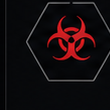
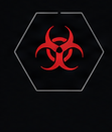
Refine card links and hero sizing

Changed region(s): [[0.1091, 0.0, 1.0, 0.7636], [0.0273, 0.0, 0.0545, 0.5455], [0.0273, 0.6818, 0.0545, 0.8455]]

diff --git a/assets/css/site.css b/assets/css/site.css
@@ -334,7 +334,7 @@ p {
 .eyebrow {
   margin: 0 0 1rem;
   color: var(--red);
-  font-size: clamp(1.05rem, 1.15vw, 1.25rem);
+  font-size: clamp(1.18rem, 1.32vw, 1.42rem);
   font-weight: 850;
   letter-spacing: 0.14em;
   text-transform: uppercase;
@@ -358,7 +358,7 @@ p {
 
 .hero h1 {
   max-width: 100%;
-  font-size: clamp(2.8rem, 3vw, 3.45rem);
+  font-size: clamp(3.1rem, 3.35vw, 3.9rem);
   line-height: 1;
   font-weight: 850;
   white-space: nowrap;
@@ -368,7 +368,7 @@ p {
   max-width: 760px;
   margin-top: 1.25rem;
   color: var(--muted);
-  font-size: clamp(1.45rem, 1.9vw, 1.85rem);
+  font-size: clamp(1.65rem, 2.05vw, 2.05rem);
   line-height: 1.6;
   overflow-wrap: break-word;
 }
@@ -496,22 +496,36 @@ h2 {
 }
 
 .card-levels a {
-  display: grid;
+  display: flex;
+  align-items: center;
+  justify-content: space-between;
   gap: 0.12rem;
-  color: var(--muted);
-  font-size: 0.9rem;
+  color: var(--text);
+  font-size: 0.94rem;
+  background: rgba(255, 37, 56, 0.08);
+  border: 1px solid rgba(255, 37, 56, 0.24);
   border-radius: 6px;
-  padding: 0.35rem 0;
+  padding: 0.6rem 0.7rem;
+  transition: background 160ms ease, border-color 160ms ease, transform 160ms ease;
 }
 
 .card-levels a:hover,
 .card-levels a:focus-visible {
   color: var(--text);
+  background: rgba(255, 37, 56, 0.18);
+  border-color: rgba(255, 37, 56, 0.58);
+  transform: translateX(2px);
 }
 
 .card-levels strong {
   color: var(--text);
   font-size: 0.94rem;
+}
+
+.card-levels a::after {
+  content: "->";
+  color: var(--red);
+  font-weight: 850;
 }
 
 .card-toggle {
@@ -589,7 +603,7 @@ h2 {
 }
 
 .article-hero h1 {
-  font-size: clamp(2.4rem, 4vw, 3.8rem);
+  font-size: clamp(2.25rem, 3.4vw, 3.25rem);
   line-height: 0.98;
   font-weight: 850;
   text-wrap: balance;

diff --git a/index.php b/index.php
@@ -31,25 +31,25 @@ $url = "https://www.swgaudit.com";
         <div class="nav-item">
           <a class="nav-trigger" href="#phishing" aria-haspopup="true" aria-expanded="false">Phishing</a>
           <div class="dropdown" aria-label="Phishing levels">
-            <a href="#phishing-level-1">Bare Minimum <span>Level 1</span></a>
-            <a href="#phishing-level-2">Evasion Resistance <span>Level 2</span></a>
-            <a href="#phishing-level-3">Advanced Threat Simulation <span>Level 3</span></a>
+            <a href="#phishing-level-1">Bare Minimum</a>
+            <a href="#phishing-level-2">Evasion Resistance</a>
+            <a href="#phishing-level-3">Advanced Threat Simulation</a>
           </div>
         </div>
         <div class="nav-item">
           <a class="nav-trigger" href="#malware" aria-haspopup="true" aria-expanded="false">Malware</a>
           <div class="dropdown" aria-label="Malware levels">
-            <a href="#malware-level-1">Bare Minimum <span>Level 1</span></a>
-            <a href="#malware-level-2">Evasion Resistance <span>Level 2</span></a>
-            <a href="#malware-level-3">Advanced Threat Simulation <span>Level 3</span></a>
+            <a href="#malware-level-1">Bare Minimum</a>
+            <a href="#malware-level-2">Evasion Resistance</a>
+            <a href="#malware-level-3">Advanced Threat Simulation</a>
           </div>
         </div>
         <div class="nav-item">
           <a class="nav-trigger" href="#data-theft" aria-haspopup="true" aria-expanded="false">Data Theft</a>
           <div class="dropdown" aria-label="Data Theft levels">
-            <a href="#data-theft-level-1">Bare Minimum <span>Level 1</span></a>
-            <a href="#data-theft-level-2">Evasion Resistance <span>Level 2</span></a>
-            <a href="#data-theft-level-3">Advanced Threat Simulation <span>Level 3</span></a>
+            <a href="#data-theft-level-1">Bare Minimum</a>
+            <a href="#data-theft-level-2">Evasion Resistance</a>
+            <a href="#data-theft-level-3">Advanced Threat Simulation</a>
           </div>
         </div>
         <a class="nav-link" href="#cyberslacking">Cyberslacking</a>
@@ -72,27 +72,27 @@ $url = "https://www.swgaudit.com";
           <button type="button" aria-expanded="false" aria-controls="mobile-phishing">Phishing</button>
           <div id="mobile-phishing">
             <a href="#phishing">Overview</a>
-            <a href="#phishing-level-1">Level 1: Bare Minimum</a>
-            <a href="#phishing-level-2">Level 2: Evasion Resistance</a>
-            <a href="#phishing-level-3">Level 3: Advanced Threat Simulation</a>
+            <a href="#phishing-level-1">Bare Minimum</a>
+            <a href="#phishing-level-2">Evasion Resistance</a>
+            <a href="#phishing-level-3">Advanced Threat Simulation</a>
           </div>
         </div>
         <div class="mobile-accordion">
           <button type="button" aria-expanded="false" aria-controls="mobile-malware">Malware</button>
           <div id="mobile-malware">
             <a href="#malware">Overview</a>
-            <a href="#malware-level-1">Level 1: Bare Minimum</a>
-            <a href="#malware-level-2">Level 2: Evasion Resistance</a>
-            <a href="#malware-level-3">Level 3: Advanced Threat Simulation</a>
+            <a href="#malware-level-1">Bare Minimum</a>
+            <a href="#malware-level-2">Evasion Resistance</a>
+            <a href="#malware-level-3">Advanced Threat Simulation</a>
           </div>
         </div>
         <div class="mobile-accordion">
           <button type="button" aria-expanded="false" aria-controls="mobile-data-theft">Data Theft</button>
           <div id="mobile-data-theft">
             <a href="#data-theft">Overview</a>
-            <a href="#data-theft-level-1">Level 1: Bare Minimum</a>
-            <a href="#data-theft-level-2">Level 2: Evasion Resistance</a>
-            <a href="#data-theft-level-3">Level 3: Advanced Threat Simulation</a>
+            <a href="#data-theft-level-1">Bare Minimum</a>
+            <a href="#data-theft-level-2">Evasion Resistance</a>
+            <a href="#data-theft-level-3">Advanced Threat Simulation</a>
           </div>
         </div>
         <a class="mobile-direct" href="#cyberslacking">Cyberslacking</a>
@@ -122,7 +122,7 @@ $url = "https://www.swgaudit.com";
 
     <section class="section" aria-labelledby="categories-title">
       <div class="section-head">
-        <h2 id="categories-title">Four ways to challenge the perimeter.</h2>
+        <h2 id="categories-title">Four ways to challenge the perimeter</h2>
       </div>
 
       <div class="category-grid">